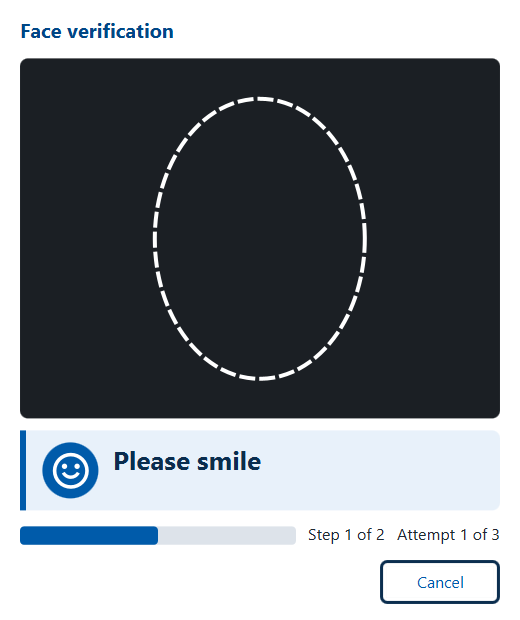
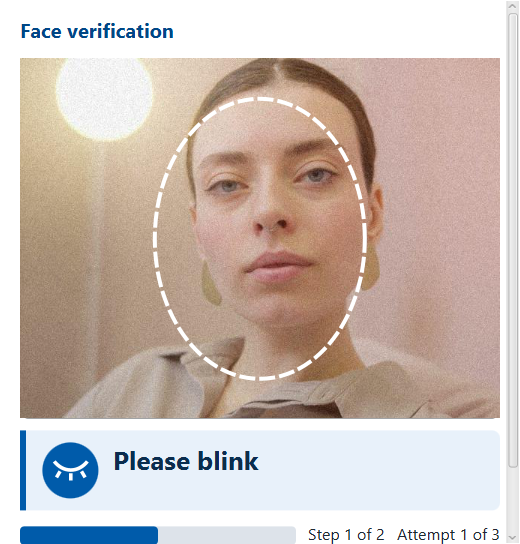
ux screenshots: show the recorded face in the key desktop liveness screens
The published desktop screenshots hid the camera preview, so no face was
visible. A new flow, screens-faces.flow, runs the demo sections with the
preview shown; its run of 2026-10-21 passed 22 of 22 checks. From it:
- e2e-03 challenge prompt (Please blink) over the noisy S3 clip,
- e2e-05 printed photo refused by passive PAD,
- e2e-09 screen replay refused at end-of-day supervisor verification,
- e2e-16 resident face passed (new): biometrics screen, quality 95%.

The faces are the Pexels clips already used by the frame packs (S3 by
Artem Podrez; attack packs made from S2 by cottonbro studio), Pexels
License, attributed in the captions and in docs/eval/README.md, whose
statement that the clips are never shown is updated. The CC BY-SA clips
are not shown. Captions now match the pictures: the print is refused by
PAD, not by a challenge timeout, so the challenge-timeout references point
to e2e-10 instead, also in the wireframe sheet.

diff --git a/docs/ux/capture/draw_wireframes.py b/docs/ux/capture/draw_wireframes.py
@@ -351,7 +351,7 @@ STATES = [
         notes=[
             "Used when liveness was not shown (timeout, wrong action, low score) but nothing points to an attack.",
             "The guidance line names what to change: look at the camera, face visible, lighting, capture area, follow the action.",
-            "Pictures: desktop e2e-05-print-refused.png; Android e2e-03-sign-in-replay-refused.png.",
+            "Pictures: desktop e2e-10-config-sync-print-refused.png; Android e2e-03-sign-in-replay-refused.png.",
         ],
     ),
     dict(

diff --git a/docs/ux/README.md b/docs/ux/README.md
@@ -1,8 +1,12 @@
 # UX: screens, flows and messages
 
 Index of every committed screen picture of the face liveness feature on both clients, grouped by state, plus the
-states that have no picture yet. All pictures are real screens of the running clients. The `e2e-*` pictures and
-the Android pictures hide the camera preview, so the dark oval is where the camera image would be. The desktop
+states that have no picture yet. All pictures are real screens of the running clients. The desktop pictures
+`e2e-03`, `e2e-05`, `e2e-09` and `e2e-16` show the camera preview with recorded faces (taken 2026-10-21 with
+`tools/mock-sync/e2e/flows/screens-faces.flow`): subject S3 is Pexels 6781549 by Artem Podrez, the attack packs are
+made from Pexels 5474329 and 5474326 by cottonbro studio, all under the Pexels License (attribution:
+[../eval/README.md](../eval/README.md)); the people are not project members. The other `e2e-*` pictures and the
+Android pictures hide the camera preview, so the dark oval is where the camera image would be. The desktop
 `d-*` pictures show, in the preview, the stock stream image that ships with MOSIP MockMDS (MPL-2.0; see
 [desktop-liveness.md](desktop-liveness.md)), never a team member or a volunteer.
 
@@ -31,10 +35,10 @@ R = resident, L = login, E = end of day).
 | Positioning (oval guide, "Look directly at the camera.") | [d-r1-positioning.png](screenshots/desktop/d-r1-positioning.png) | [a-p1-positioning-offline.png](screenshots/android/a-p1-positioning-offline.png) (amber oval and banner "No face detected. Keep your face within the capture area.", progress bar, offline badge; taken 2026-10-05 in airplane mode with an empty replay pack) |
 | Positioning tip during an attempt (amber banner and oval, "Ensure your face is clearly visible.", attempt 3 of 3) | [d-r8-max-attempts.png](screenshots/desktop/d-r8-max-attempts.png) (the file name says maximum attempts, but the picture was taken before the attempt ended; see section 7) | — |
 | Checking face liveness (passive, no action needed) | — (described in [desktop-liveness.md](desktop-liveness.md) section 2; wireframe row 2) | — (wireframe row 2) |
-| Active challenge, step 1 of 2, icon and progress | [e2e-03-low-confidence-challenge.png](screenshots/desktop/e2e-03-low-confidence-challenge.png) ("Please smile", smile icon) | [e2e-06-low-confidence-challenge.png](screenshots/android/e2e-06-low-confidence-challenge.png) ("Please smile") |
+| Active challenge, step 1 of 2, icon and progress | [e2e-03-low-confidence-challenge.png](screenshots/desktop/e2e-03-low-confidence-challenge.png) ("Please blink", blink icon, face in the preview) | [e2e-06-low-confidence-challenge.png](screenshots/android/e2e-06-low-confidence-challenge.png) ("Please smile") |
 | Challenge forced by policy (`ALWAYS_ACTIVE` after a sync) | [e2e-10-config-sync-print-refused.png](screenshots/desktop/e2e-10-config-sync-print-refused.png) | [e2e-12-config-active-challenge.png](screenshots/android/e2e-12-config-active-challenge.png) |
 | Action detected / hold still | — (wireframe rows 4 and 5) | — (wireframe rows 4 and 5) |
-| Success, "Good, face captured successfully" | — (described in [desktop-liveness.md](desktop-liveness.md) section 2) | [a-r1-resident-face-passed.png](screenshots/android/a-r1-resident-face-passed.png) (ARC biometrics screen: banner, quality 90%, attempt 1) |
+| Success, "Good, face captured successfully" | [e2e-16-resident-face-passed.png](screenshots/desktop/e2e-16-resident-face-passed.png) (biometrics screen after the pass: captured face, quality 95%, attempt 1; the window's own success line is described in [desktop-liveness.md](desktop-liveness.md) section 2) | [a-r1-resident-face-passed.png](screenshots/android/a-r1-resident-face-passed.png) (ARC biometrics screen: banner, quality 90%, attempt 1) |
 
 ## 2. Operator authentication
 
@@ -52,7 +56,7 @@ R = resident, L = login, E = end of day).
 |---|---|---|
 | Approval list before supervisor verification | [e2e-08-eod-pending.png](screenshots/desktop/e2e-08-eod-pending.png) | [e2e-10-pending-approval.png](screenshots/android/e2e-10-pending-approval.png) |
 | "Supervisor verification" window | [d-e1-eod-supervisor-arabic.png](screenshots/desktop/d-e1-eod-supervisor-arabic.png) (Arabic, right to left) | [e2e-11-supervisor-replay-refused.png](screenshots/android/e2e-11-supervisor-replay-refused.png) |
-| Screen replay refused at approval | [e2e-09-eod-replay-refused.png](screenshots/desktop/e2e-09-eod-replay-refused.png) | [e2e-11-supervisor-replay-refused.png](screenshots/android/e2e-11-supervisor-replay-refused.png) |
+| Screen replay refused at approval | [e2e-09-eod-replay-refused.png](screenshots/desktop/e2e-09-eod-replay-refused.png) (the replayed video is visible in the preview) | [e2e-11-supervisor-replay-refused.png](screenshots/android/e2e-11-supervisor-replay-refused.png) |
 | Reviewer authentication after a biometric exception | [e2e-04-reviewer-authentication.png](screenshots/desktop/e2e-04-reviewer-authentication.png) | — (no reviewer step in the Android client) |
 | Approval completed offline | — | [e2e-13-offline-approved.png](screenshots/android/e2e-13-offline-approved.png) (airplane mode, 0 applications left) |
 
@@ -60,8 +64,8 @@ R = resident, L = login, E = end of day).
 
 | State | Desktop | Android |
 |---|---|---|
-| Liveness not established (challenge timeout): "We could not verify face liveness. Please try again." with guidance | [e2e-05-print-refused.png](screenshots/desktop/e2e-05-print-refused.png) | [e2e-03-sign-in-replay-refused.png](screenshots/android/e2e-03-sign-in-replay-refused.png) |
-| Suspected attack (PAD, integrity): generic "Face verification could not be completed. Please try again." | [d-r7-pad-fail-retry.png](screenshots/desktop/d-r7-pad-fail-retry.png), [e2e-06-injected-still-refused.png](screenshots/desktop/e2e-06-injected-still-refused.png) | [e2e-05-resident-replay-refused.png](screenshots/android/e2e-05-resident-replay-refused.png) |
+| Liveness not established (challenge timeout): "We could not verify face liveness. Please try again." with guidance | [e2e-10-config-sync-print-refused.png](screenshots/desktop/e2e-10-config-sync-print-refused.png) | [e2e-03-sign-in-replay-refused.png](screenshots/android/e2e-03-sign-in-replay-refused.png) |
+| Suspected attack (PAD, integrity): generic "Face verification could not be completed. Please try again." | [e2e-05-print-refused.png](screenshots/desktop/e2e-05-print-refused.png) (printed photo in the preview), [d-r7-pad-fail-retry.png](screenshots/desktop/d-r7-pad-fail-retry.png), [e2e-06-injected-still-refused.png](screenshots/desktop/e2e-06-injected-still-refused.png) | [e2e-05-resident-replay-refused.png](screenshots/android/e2e-05-resident-replay-refused.png) |
 | Retry available, "Attempt n of 3" | [d-r7-pad-fail-retry.png](screenshots/desktop/d-r7-pad-fail-retry.png) | [e2e-05-resident-replay-refused.png](screenshots/android/e2e-05-resident-replay-refused.png) |
 | Maximum attempts, recovery guidance | [e2e-07-max-attempts-guidance.png](screenshots/desktop/e2e-07-max-attempts-guidance.png) | [e2e-08-max-attempts.png](screenshots/android/e2e-08-max-attempts.png) |
 | Capture blocked for the registration after maximum attempts | — | [e2e-09-blocked-under-scan.png](screenshots/android/e2e-09-blocked-under-scan.png), [a-r3-resident-max-attempts.png](screenshots/android/a-r3-resident-max-attempts.png) |
@@ -93,7 +97,7 @@ R = resident, L = login, E = end of day).
 |---|---|---|---|
 | Checking face liveness | missing | missing | Only frames of real people reach this state long enough; take it with a masked preview (`mask on` in the desktop driver, `masked` replay on Android) |
 | Action detected, hold still | missing | missing | Same; the states were observed in logs (`desktop-liveness.md` section 2, Android Logcat) |
-| Success on the capture window itself | missing | only the ARC banner | Same |
+| Success on the capture window itself | only the biometrics screen after the pass (`e2e-16`) | only the ARC banner | Same |
 | Multiple faces | missing | missing | No two-face frame pack in the client runs (`eval/scenarios/other-two-faces.yaml` runs only in the scenario runner) |
 | Poor quality (too dark, blurred) | missing | missing | Needs a masked run with the dim or blurred pack |
 | Device unavailable with its own wording | wrong text | not applicable | Desktop maps a refused stream to the "disconnected" message; fix in the services layer |

diff --git a/docs/ux/desktop-liveness.md b/docs/ux/desktop-liveness.md
@@ -32,18 +32,21 @@ evaluation frame packs; those frames are never committed, so the pass states are
 
 Taken by `scripts/demo-desktop.sh` on the real client with MockSync and MockMDS (reference run of
 `docs/test-report/desktop-e2e.md`). The driver hides the camera preview, captured faces and HTML previews, so no face
-appears; the dark preview area is where the camera image would be.
+appears; the dark preview area is where the camera image would be. E2E-03, E2E-05, E2E-09 and E2E-16 are from a
+later run with the preview shown (2026-10-21, `scripts/demo-desktop.sh --restore-golden --policy recorded --flow
+tools/mock-sync/e2e/flows/screens-faces.flow`, 22 of 22 checks passed). The faces are recorded clips used under their licences: subject S3 is Pexels 6781549 by Artem Podrez (Pexels License), and the attack packs are made from Pexels 5474329 and 5474326 by cottonbro studio (Pexels License); see [../eval/README.md](../eval/README.md). The people are not project members.
 
 | Id | Picture | What it shows |
 |---|---|---|
 | E2E-02 | ![disconnect](screenshots/desktop/e2e-02-device-disconnected.png) | MockMDS `DISCONNECT` during a resident capture: "The face camera was disconnected. Reconnect it and select Retry."; the attempt is not used. |
-| E2E-03 | ![challenge](screenshots/desktop/e2e-03-low-confidence-challenge.png) | Low passive score: step 1 of 2, "Please smile" with the smile icon and progress bar (the client picks the actions at random; in this run blink came second). |
+| E2E-03 | ![challenge](screenshots/desktop/e2e-03-low-confidence-challenge.png) | Low passive score (pack `s3n`, the S3 clip through a noisy camera): step 1 of 2, "Please blink" with the blink icon and progress bar over the live preview (the client picks the actions at random). |
 | E2E-04 | ![reviewer](screenshots/desktop/e2e-04-reviewer-authentication.png) | Reviewer (supervisor) authentication after a marked finger exception; the Scan button opens the liveness window. |
-| E2E-05 | ![print](screenshots/desktop/e2e-05-print-refused.png) | Printed photo: it cannot answer the challenge; "We could not verify face liveness. Please try again." with "Time is up for this action." |
+| E2E-05 | ![print](screenshots/desktop/e2e-05-print-refused.png) | Printed photo held up to the camera (synthetic pack `a-s2-print-still`): passive PAD refuses it (audit LV08, reason `PAD_SCORE`) with the generic "Face verification could not be completed. Please try again.", attempt 1 of 3. In earlier runs the print passed PAD and failed the challenge instead ("We could not verify face liveness"). |
 | E2E-06 | ![still](screenshots/desktop/e2e-06-injected-still-refused.png) | Injected still stream (identical frames): the generic "Face verification could not be completed. Please try again.", attempt 2 of 3. |
 | E2E-07 | ![max](screenshots/desktop/e2e-07-max-attempts-guidance.png) | After three refused attacks: recovery guidance, lock icon, Close. |
 | E2E-08 | ![eod](screenshots/desktop/e2e-08-eod-pending.png) | End-of-day approval list before supervisor authentication (the HTML preview on the right is hidden). |
-| E2E-09 | ![eod replay](screenshots/desktop/e2e-09-eod-replay-refused.png) | Supervisor verification refuses a screen replay. |
+| E2E-09 | ![eod replay](screenshots/desktop/e2e-09-eod-replay-refused.png) | Supervisor verification at end of day refuses a video replayed on a screen (pack `a-s2-screen-replay`, scan lines and glare visible): "Face verification could not be completed. Please try again.", attempt 1 of 3. |
+| E2E-16 | ![passed](screenshots/desktop/e2e-16-resident-face-passed.png) | Resident face passed: after two answered challenges the biometrics screen shows the captured face (pack `s3`), quality 95% against the 90% threshold, attempt 1. |
 | E2E-10 | ![config](screenshots/desktop/e2e-10-config-sync-print-refused.png) | After MockSync pushed `policy.registration=ALWAYS_ACTIVE`: the moving print must answer a challenge and is refused. |
 | E2E-11 | ![l1](screenshots/desktop/e2e-11-l1-device-onboarding.png) | Operator biometrics captured through an L1 face device (FTM-signed digitalId). |
 | E2E-12 | ![match](screenshots/desktop/e2e-12-face-match-not-found.png) | A live person who is not the operator: liveness passes, the SFace match does not ("Face match not found"). |

diff --git a/docs/traceability.md b/docs/traceability.md
@@ -405,7 +405,7 @@ in `livenessmanager/src/main/res/values*/strings.xml` (en, fr, ar, hi, kn, ta) a
 | UX2 | "Checking face liveness..." and automatic progress without user action | `liveness.status.checking` | same key | `docs/ux/desktop-liveness.md` section 2; Android Logcat screen states | done | No committed screenshot of this state (the pass path used real-person frames). |
 | UX3 | Automatic challenge display ("Please blink", "Please smile", "Please turn your head to the left") | `liveness.challenge.*` | same | DE-D4, AE-A7 | done | |
 | UX4 | Real-time feedback ("Please continue", "Action detected", "Hold still", "Good, face captured successfully") | `liveness.feedback.*` | same | `screenshots/android/a-r1-resident-face-passed.png` (success banner); `LivenessViewModelTest` | done | |
-| UX5 | Liveness failure with actionable guidance (look at the camera, face visible, lighting, capture area, follow the prompt) | `liveness.fail.liveness` + `liveness.guide.*` | same | `screenshots/desktop/e2e-05-print-refused.png`, `android/e2e-03-sign-in-replay-refused.png` | done | |
+| UX5 | Liveness failure with actionable guidance (look at the camera, face visible, lighting, capture area, follow the prompt) | `liveness.fail.liveness` + `liveness.guide.*` | same | `screenshots/desktop/e2e-10-config-sync-print-refused.png`, `android/e2e-03-sign-in-replay-refused.png` | done | |
 | UX6 | PAD failure: generic message, details only in audit/diagnostics | `liveness.fail.pad`; reason in LV08 only | same | `d-r7-pad-fail-retry.png`, `e2e-06-injected-still-refused.png`, `android/e2e-05-resident-replay-refused.png`; `UiStateMapperTest` | done | |
 | UX7 | Retry indication; maximum attempts message with recovery process | `liveness.retry.available`, `retry.max_resident`, `retry.max_auth` | same | `e2e-07-max-attempts-guidance.png`, `android/e2e-08-max-attempts.png` | done | |
 | UX8 | Same principles for operator and supervisor authentication | same `LivenessDialog` in 6 screens; "Supervisor verification" title | same activity; Flutter `FaceAuthPanel` | `d-e1-eod-supervisor-arabic.png`, `android/e2e-11-supervisor-replay-refused.png` | done | Differences: desktop resident override vs Android block; wrong-person text differs (see `test-report/android-e2e.md` section 7). |

diff --git a/docs/install/README.md b/docs/install/README.md
@@ -235,7 +235,7 @@ for actions. The prompts appear on the client's screen; here you are operator an
 | Actions | for example "Please smile", "Please blink", "Please turn your head to the left", with an icon and "Step 1 of 2"; 5 s per action by default | [e2e-03-low-confidence-challenge.png](../ux/screenshots/desktop/e2e-03-low-confidence-challenge.png) |
 | After each action | "Action detected"; after the last one "Look directly at the camera and hold still." until your face is frontal and neutral, then "Hold still" while the device takes the signed capture | wireframe sheet, rows 4 and 5 |
 | Pass | "Good, face captured successfully", green oval; the window closes after about 1 s and the capture screen shows your face | wireframe sheet, row 6 |
-| Not enough evidence of liveness | "We could not verify face liveness. Please try again." with a guidance line and Retry | [e2e-05-print-refused.png](../ux/screenshots/desktop/e2e-05-print-refused.png) |
+| Not enough evidence of liveness | "We could not verify face liveness. Please try again." with a guidance line and Retry | [e2e-10-config-sync-print-refused.png](../ux/screenshots/desktop/e2e-10-config-sync-print-refused.png) |
 | Suspected attack | only "Face verification could not be completed. Please try again.", never the reason | [d-r7-pad-fail-retry.png](../ux/screenshots/desktop/d-r7-pad-fail-retry.png) |
 | Dim light | "We could not verify face liveness. Please try again." with "Improve lighting."; the first three dark tries of one capture do not use an attempt, the fourth does |
 | Third failure | recovery message with a lock icon, Close | [e2e-07-max-attempts-guidance.png](../ux/screenshots/desktop/e2e-07-max-attempts-guidance.png) |

diff --git a/docs/eval/README.md b/docs/eval/README.md
@@ -73,7 +73,7 @@ A pack is a folder of JPEG frames `frame_00000.jpg`, `frame_00001.jpg`, ... at 6
 | MockMDS stock stream image (`devices/mock-mds/Biometric Devices/Face/Stream Image/0.jpeg`) | MPL-2.0 | `m-stream-static` | none (one image repeated) |
 
 - The ffmpeg cut uses bit-exact flags, so the same ffmpeg build reproduces the recorded SHA-256 of every frame; another build may give different bytes, which `--verify-only` reports.
-- The people in the clips are not project members. Their frames are used only for automated tests, never shown in the demo video, slides or repository, and never used for training. The CC BY-SA clips are not redistributed; if frames cut from them were ever shared, they would carry the attribution in `sources.yaml` and the same licence.
+- The people in the clips are not project members. Their frames are used for automated tests and never used for training. Since 2026-10-21 four desktop screenshots (`docs/ux/screenshots/desktop/e2e-03`, `e2e-05`, `e2e-09`, `e2e-16`) and the slides made from them show frames of the Pexels clips (S3, and attack packs made from S2) in the camera preview, as the Pexels License allows, with the attribution above; the CC BY-SA clips (S1) are not shown. The CC BY-SA clips are not redistributed; if frames cut from them were ever shared, they would carry the attribution in `sources.yaml` and the same licence.
 
 **Synthetic packs** (made by `make-attack-packs.py`; every manifest description says "SYNTHETIC"):
 

diff --git a/README.md b/README.md
@@ -38,7 +38,7 @@ face would be.
 
 | Desktop Registration Client | Android Registration Client (tablet emulator) |
 |---|---|
-| <img src="docs/ux/screenshots/desktop/e2e-03-low-confidence-challenge.png" alt="Desktop face verification window: dashed oval, smile icon, Please smile, Step 1 of 2, Attempt 1 of 3, Cancel" width="300"> | <img src="docs/ux/screenshots/android/e2e-06-low-confidence-challenge.png" alt="Android capture screen: oval with progress arc, Please smile, Step 1 of 2, attempt dots, Cancel" width="520"> |
+| <img src="docs/ux/screenshots/desktop/e2e-03-low-confidence-challenge.png" alt="Desktop face verification window: recorded face in the preview, dashed oval, blink icon, Please blink, Step 1 of 2, Attempt 1 of 3" width="300"> | <img src="docs/ux/screenshots/android/e2e-06-low-confidence-challenge.png" alt="Android capture screen: oval with progress arc, Please smile, Step 1 of 2, attempt dots, Cancel" width="520"> |
 
 Every state of both clients side by side (wireframes): [docs/ux/wireframes.svg](docs/ux/wireframes.svg); all
 pictures by state: [docs/ux/README.md](docs/ux/README.md).

diff --git a/docs/test-report/desktop-e2e.md b/docs/test-report/desktop-e2e.md
@@ -293,5 +293,5 @@ These counts are from 2026-09-30. Current counts per suite, with the commands a 
 | `docs/test-report/desktop-e2e/results.txt` | every check of the reference run with its section |
 | `docs/test-report/desktop-e2e/driver-summary.log` | commands, alerts, results, SQL rows and MockMDS calls of the reference run (screen-state lines removed) |
 | `docs/test-report/desktop-e2e/packets/*.liveness.json` | liveness evidence of five packets as decrypted by MockSync: `...232013` (D3), `...232100` (D4, D5), `...232400` (D8), `...232717` (D10), `...213659` (I2, override) |
-| `docs/ux/screenshots/desktop/e2e-*.png` | masked snapshots of the reference run (no face shown) |
+| `docs/ux/screenshots/desktop/e2e-*.png` | masked snapshots of the reference run (no face shown), except `e2e-03`, `e2e-05`, `e2e-09` and `e2e-16`: the same flows run again on 2026-10-21 with the preview shown (`flows/screens-faces.flow`, 22 of 22 checks; run folder `run/demo/screens-faces-20261021`) |
 | `run/demo/desktop-run4/` (not in git) | full driver log with screen states, all snapshots, `packets/` |

diff --git a/docs/pitch/deck-outline.md b/docs/pitch/deck-outline.md
@@ -40,10 +40,11 @@ the claim.
 
 **On the slide**
 - Three columns with one screenshot each:
-  - Desktop resident challenge: `screenshots/desktop/e2e-03-low-confidence-challenge.png` ("Please smile", step 1
-    of 2).
+  - Desktop resident challenge: `screenshots/desktop/e2e-03-low-confidence-challenge.png` ("Please blink", step 1
+    of 2, recorded face in the preview).
   - Android challenge: `screenshots/android/e2e-06-low-confidence-challenge.png` ("Please smile").
-  - Desktop supervisor verification refusing a replay: `screenshots/desktop/e2e-09-eod-replay-refused.png`.
+  - Desktop supervisor verification refusing a replay: `screenshots/desktop/e2e-09-eod-replay-refused.png` (the
+    replayed video visible in the preview).
 - Under them, the flow in five words: **passive → challenge → bind → gate → evidence**.
 - One line: "One offline engine, both clients, six workflows: registration, exception photo, operator login, packet
   authentication, supervisor approval, operator onboarding."
